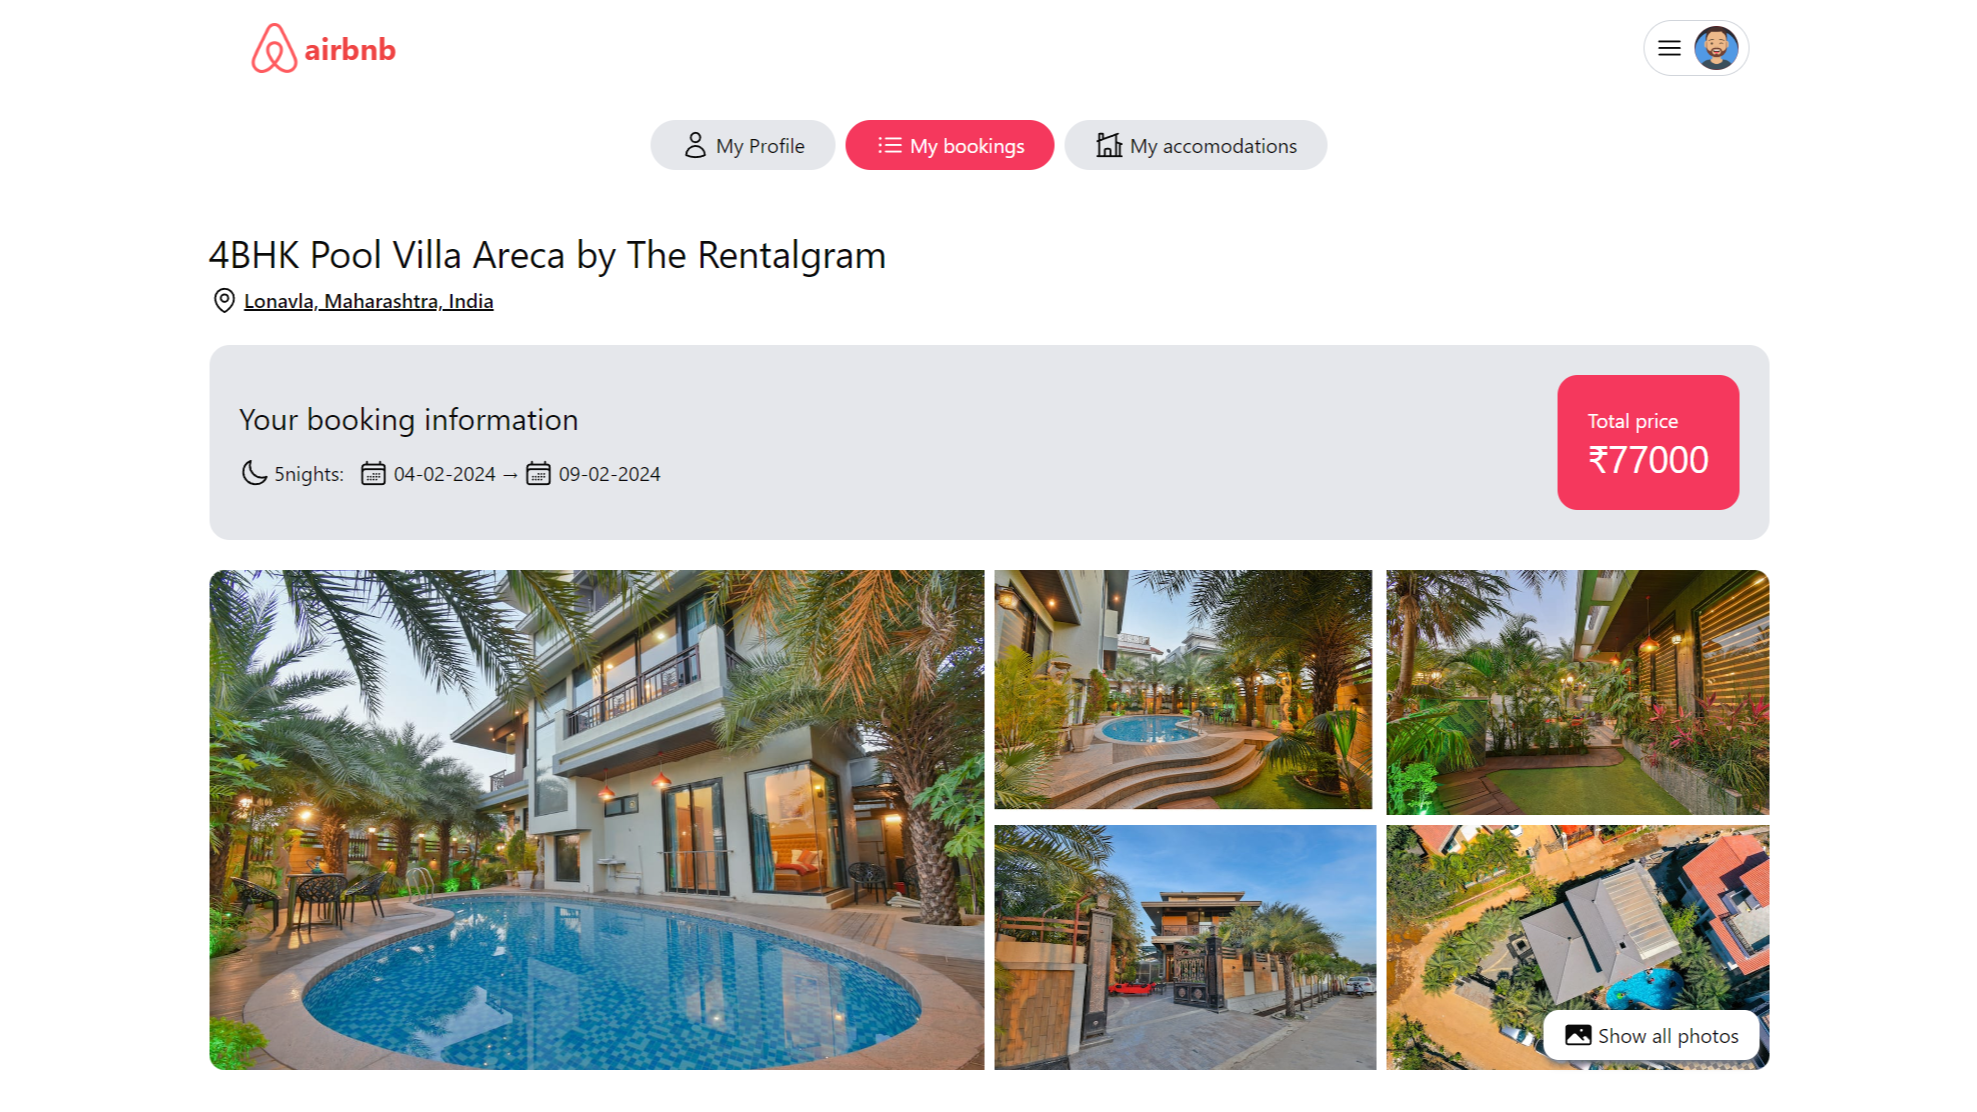
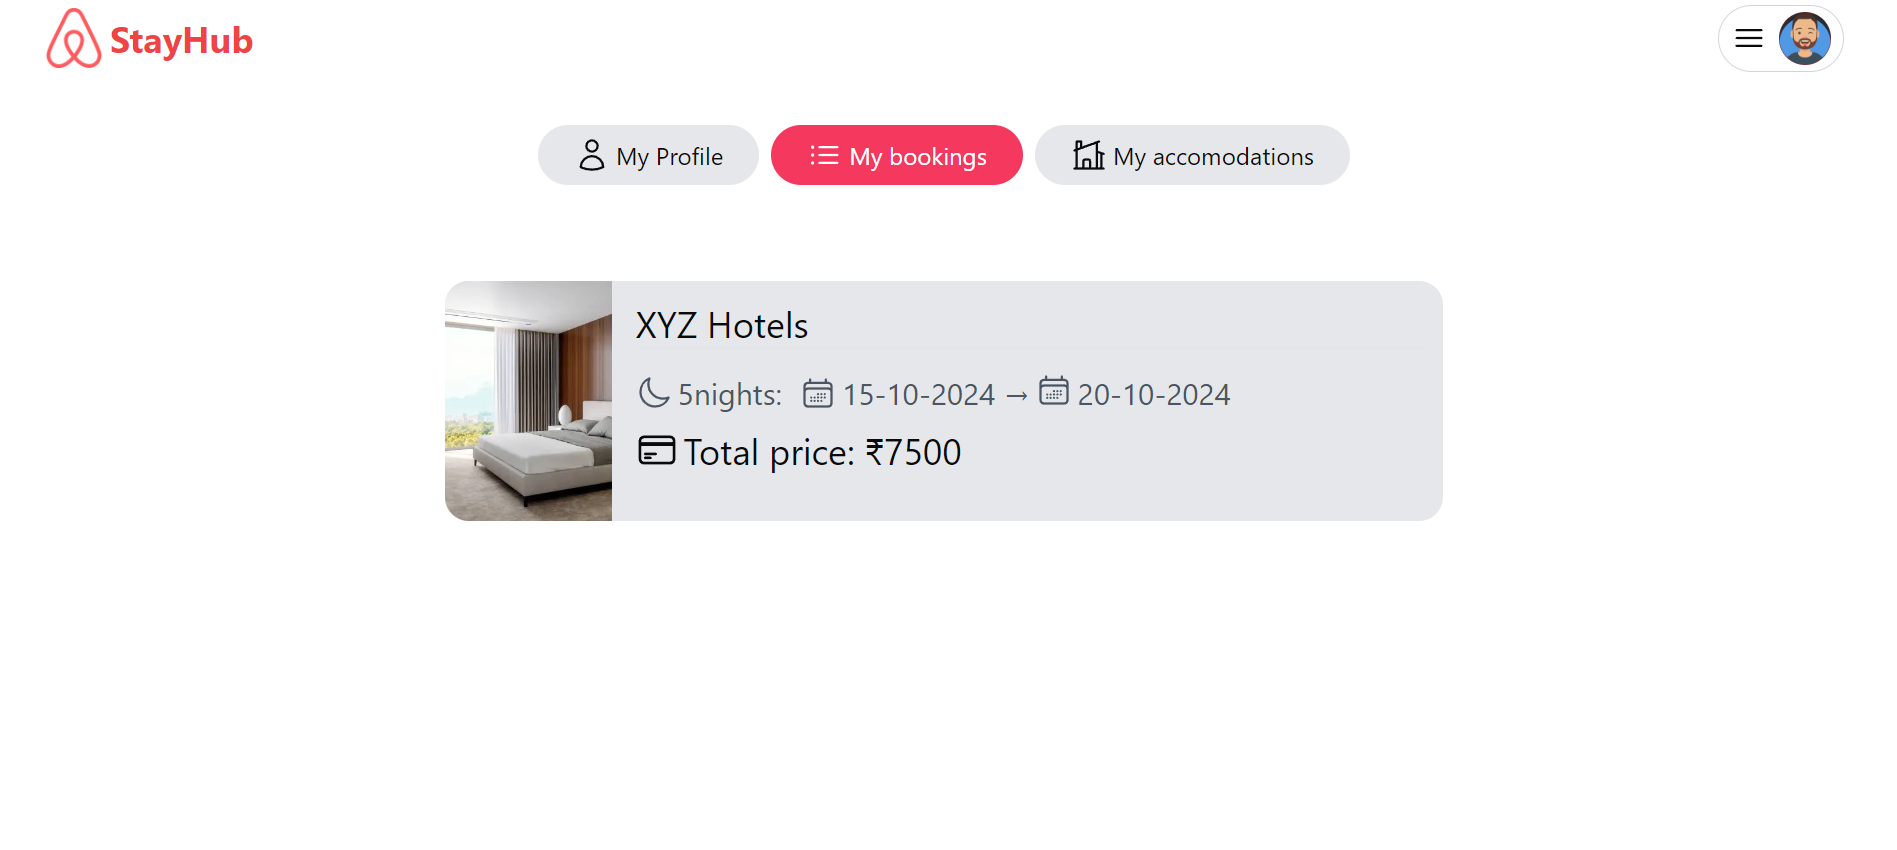
Changes in Client

diff --git a/client/src/components/ui/Layout.jsx b/client/src/components/ui/Layout.jsx
@@ -2,7 +2,7 @@ import React from 'react';
 import { Outlet } from 'react-router-dom';
 
 import { Header } from './Header';
-import Footer from './Footer';
+// import Footer from './Footer';
 
 const Layout = () => {
   return (
@@ -11,7 +11,7 @@ const Layout = () => {
       <div className="mx-auto flex min-h-screen max-w-screen-xl flex-col">
         <Outlet />
       </div>
-      <Footer />
+      {/* <Footer /> */}
     </>
   );
 };

diff --git a/client/dist/index.html b/client/dist/index.html
@@ -8,7 +8,7 @@
       href="https://cdn-icons-png.flaticon.com/512/2111/2111320.png"
     />
     <meta name="viewport" content="width=device-width, initial-scale=1.0" />
-    <title>Airbnb</title>
+    <title>StayHub</title>
     <script type="module" crossorigin src="/assets/index-71f1f5e9.js"></script>
     <link rel="stylesheet" href="/assets/index-409748d7.css">
   </head>

diff --git a/client/index.html b/client/index.html
@@ -8,7 +8,7 @@
       href="https://cdn-icons-png.flaticon.com/512/2111/2111320.png"
     />
     <meta name="viewport" content="width=device-width, initial-scale=1.0" />
-    <title>Airbnb</title>
+    <title>Stayhub</title>
   </head>
   <body>
     <div id="root"></div>

diff --git a/client/src/components/ui/Header.jsx b/client/src/components/ui/Header.jsx
@@ -53,7 +53,7 @@ export const Header = () => {
           />
 
           <span className="hidden text-2xl font-bold text-red-500 md:block">
-            airbnb
+            StayHub
           </span>
         </a>
 

diff --git a/README.md b/README.md
@@ -1,15 +1,15 @@
-# Airbnb Clone
+
 
 ## Overview
 
-This project is a full-stack web application developed as a clone of Airbnb using the MERN stack (MongoDB, Express.js, React.js, Node.js). It aims to replicate the core functionality of Airbnb, allowing users to search for accommodations, view details, make bookings, and manage their listings.
+This project is a full-stack web application developed as a clone of Airbnb using the MERN stack (MongoDB, Express.js, React.js, Node.js). It aims to replicate the core functionality , allowing users to search for accommodations, view details, make bookings, and manage their listings.
 
 ## Getting Started
 
 1. **Clone the Repository:**
 
    ```bash
-   git clone https://github.com/rahul4019/airbnb-clone.git
+   my github link
 
    ```
 
@@ -72,27 +72,27 @@ This project is a full-stack web application developed as a clone of Airbnb usin
 - **User Authentication:** Users can sign up, log in, and log out securely. Passwords are hashed for security.
 - **Google Login:** Users can sign up and log in using their gmail.
 
-  ![Airbnb Logo](client/public/assets/auth.png)
+  ![](client/public/assets/auth.png)
 
 - **Search Listings:** Users can search for accommodations.
 
-  ![Airbnb Logo](client/public/assets/search.png)
+  ![](client/public/assets/search.png)
 
 - **View Listings:** Users can view detailed information about each accommodation, including photos, descriptions, amenities.
 
-  ![Airbnb Logo](client/public/assets/view.png)
+  ![](client/public/assets/view.png)
 
 - **Make Bookings:** Authenticated users can book accommodations for specific dates.
 
-  ![Airbnb Logo](client/public/assets/book.png)
+  ![](client/public/assets/book.png)
 
 - **Manage Listings:** Hosts can create, edit, and delete their listings.
 
-  ![Airbnb Logo](client/public/assets/manage.png)
+  ![](client/public/assets/manage.png)
 
 - **Responsive Design:** The application is designed to be responsive and work seamlessly across different devices.
 
-  ![Airbnb Logo](client/public/assets/hero.png)
+  
 
 ## Technologies Used
 
@@ -101,7 +101,7 @@ This project is a full-stack web application developed as a clone of Airbnb usin
 - **React.js:** JavaScript library for building the user interface.
 - **Node.js:** JavaScript runtime environment for executing server-side code.
 - **Tailwind CSS:** A utility-first CSS framework
-- **Shadcn:** UI library for styling based on Tailwind CSS
+-
 - **JWT:** JSON Web Tokens for secure user authentication.
-- **Cloudinary:** Cloud-based image management for storing and serving images.
+-
 - **Google Cloud:** For gmail based authentication
